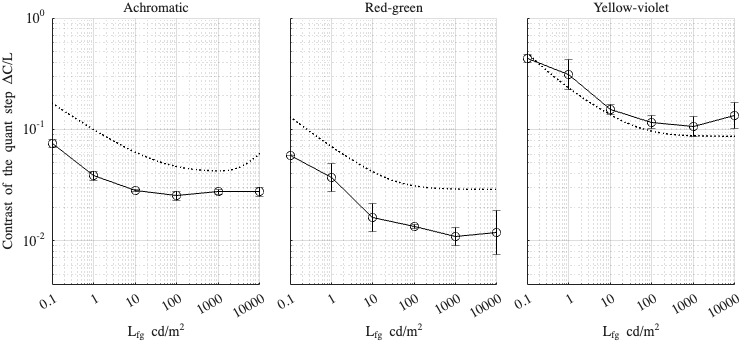
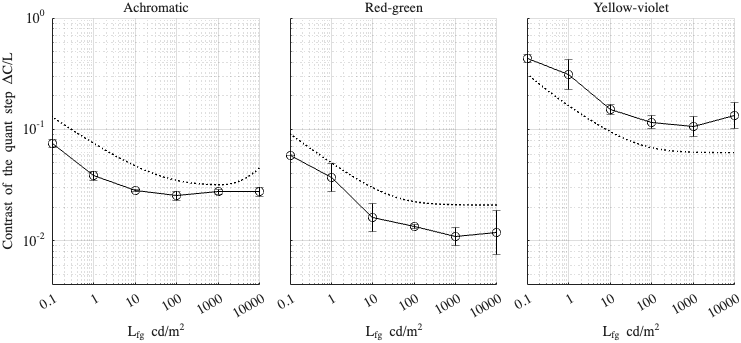
dither model

diff --git a/share/ar_banding_reports/daly_masking/index.html b/share/ar_banding_reports/daly_masking/index.html
@@ -12,16 +12,26 @@ function detectLeftButton(evt) {
 <link rel="stylesheet" type="text/css" href="style.css"></head>
 
 <body>
-<h1>daly_masking</h1>
-<h3>Fitting error (RMSE): 0.138861</h3>
+<h1>Fitting config: flat_vs_noise, model: daly_masking</h1>
+<h3>Fitting error (RMSE): 0.232666</h3>
+<h3>Model parameters</h3>
+<div class="params_frame">
+<div style="white-space: pre-line;">
+	p.beta = 1.05829;
+	p.beta_cc = 1;
+	p.gs_num = [ 0.462195 0.2 0.965358 ];
+	p.noise_params = [ 0.226448 0.434877 0.444541 ];
+	p.dither_params.value = [ 0.5 0.5 0.5 ];
+</div>
+</div>
 <h2>Dataset: [ar2025]</h2>
-<p>Scaling factor: 0.37794</p>
+<p>Scaling factor: 0.794349</p>
 
 
 <img src="fig_ar2025.png"/>
 <br/></div>
 <h2>Dataset: [kim2020]</h2>
-<p>Scaling factor: 1.49982</p>
+<p>Scaling factor: 1.43004</p>
 
 
 <img src="fig_kim2020.png"/>
